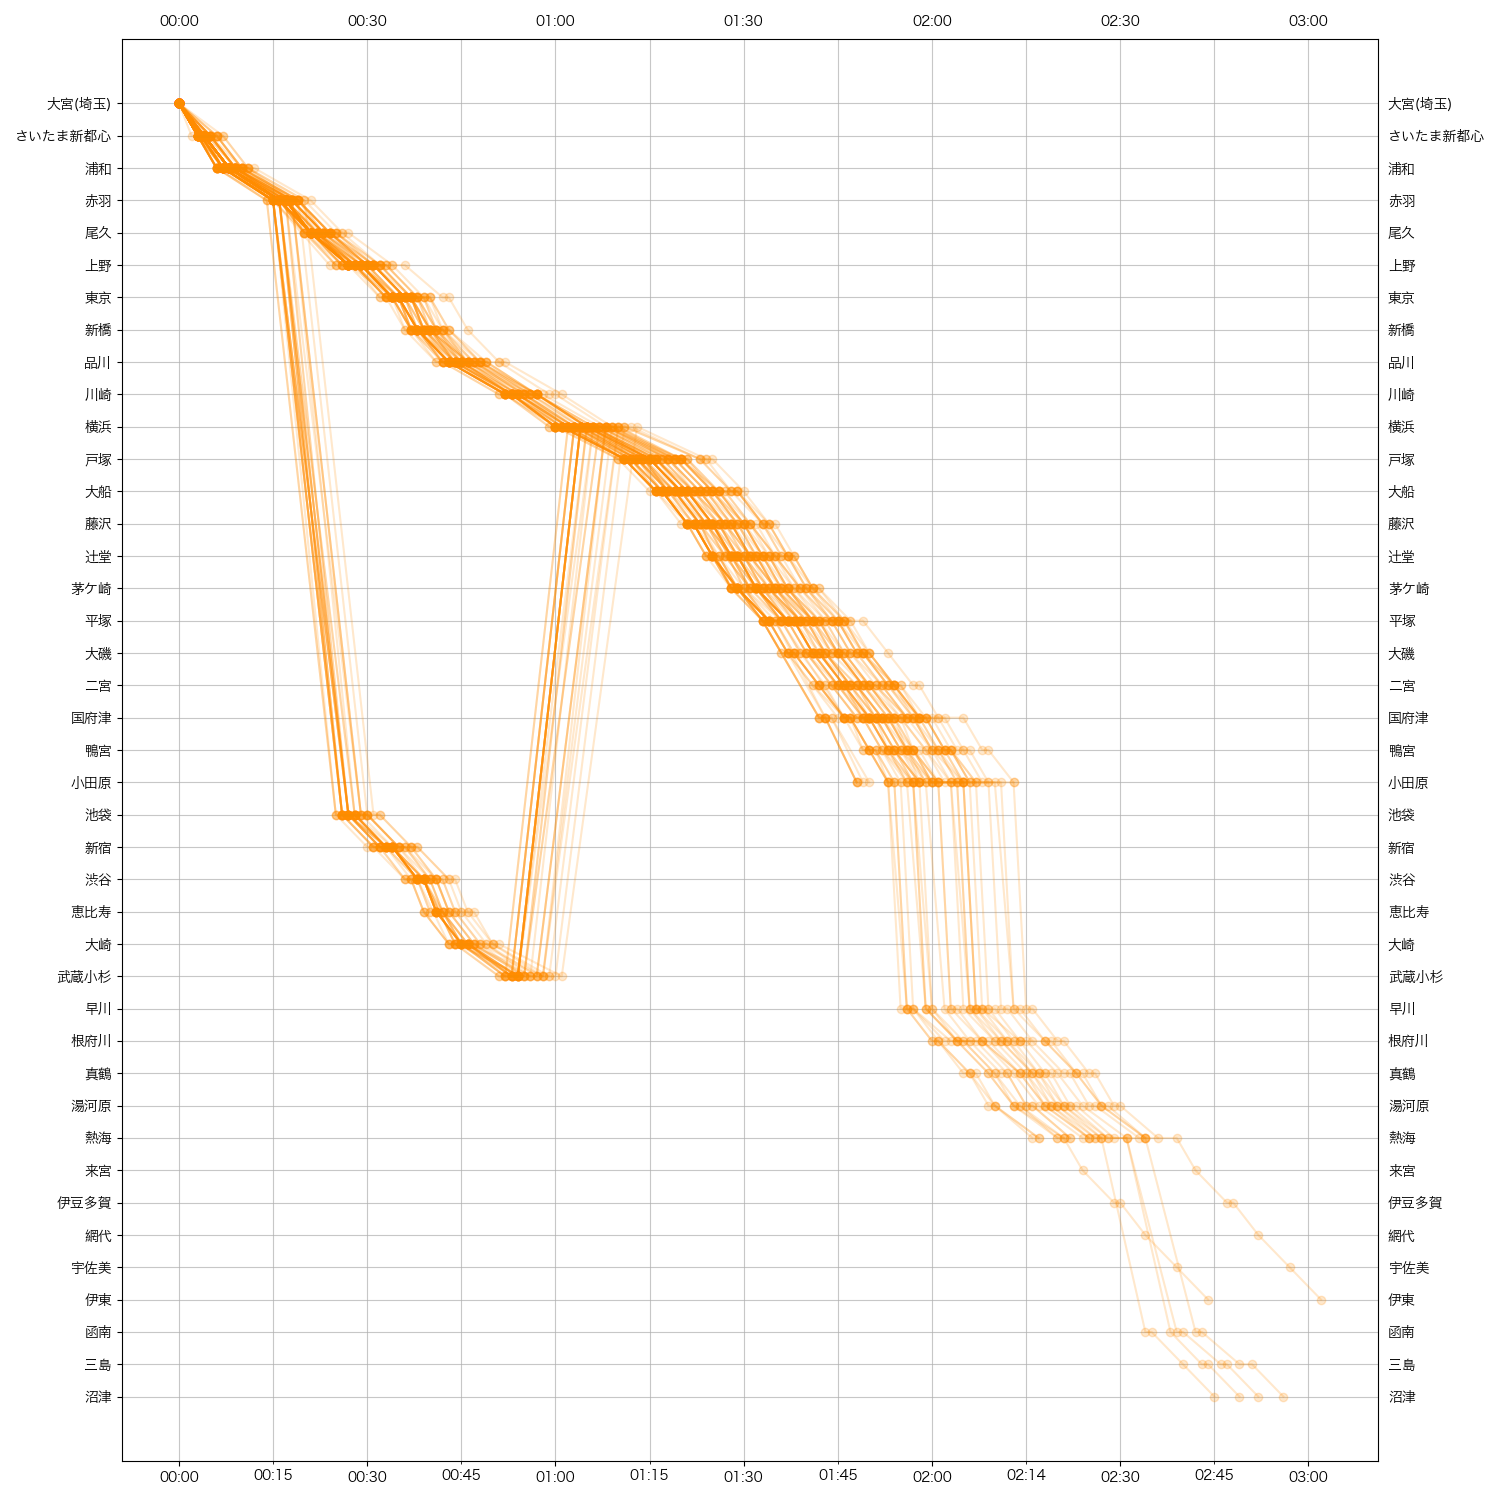
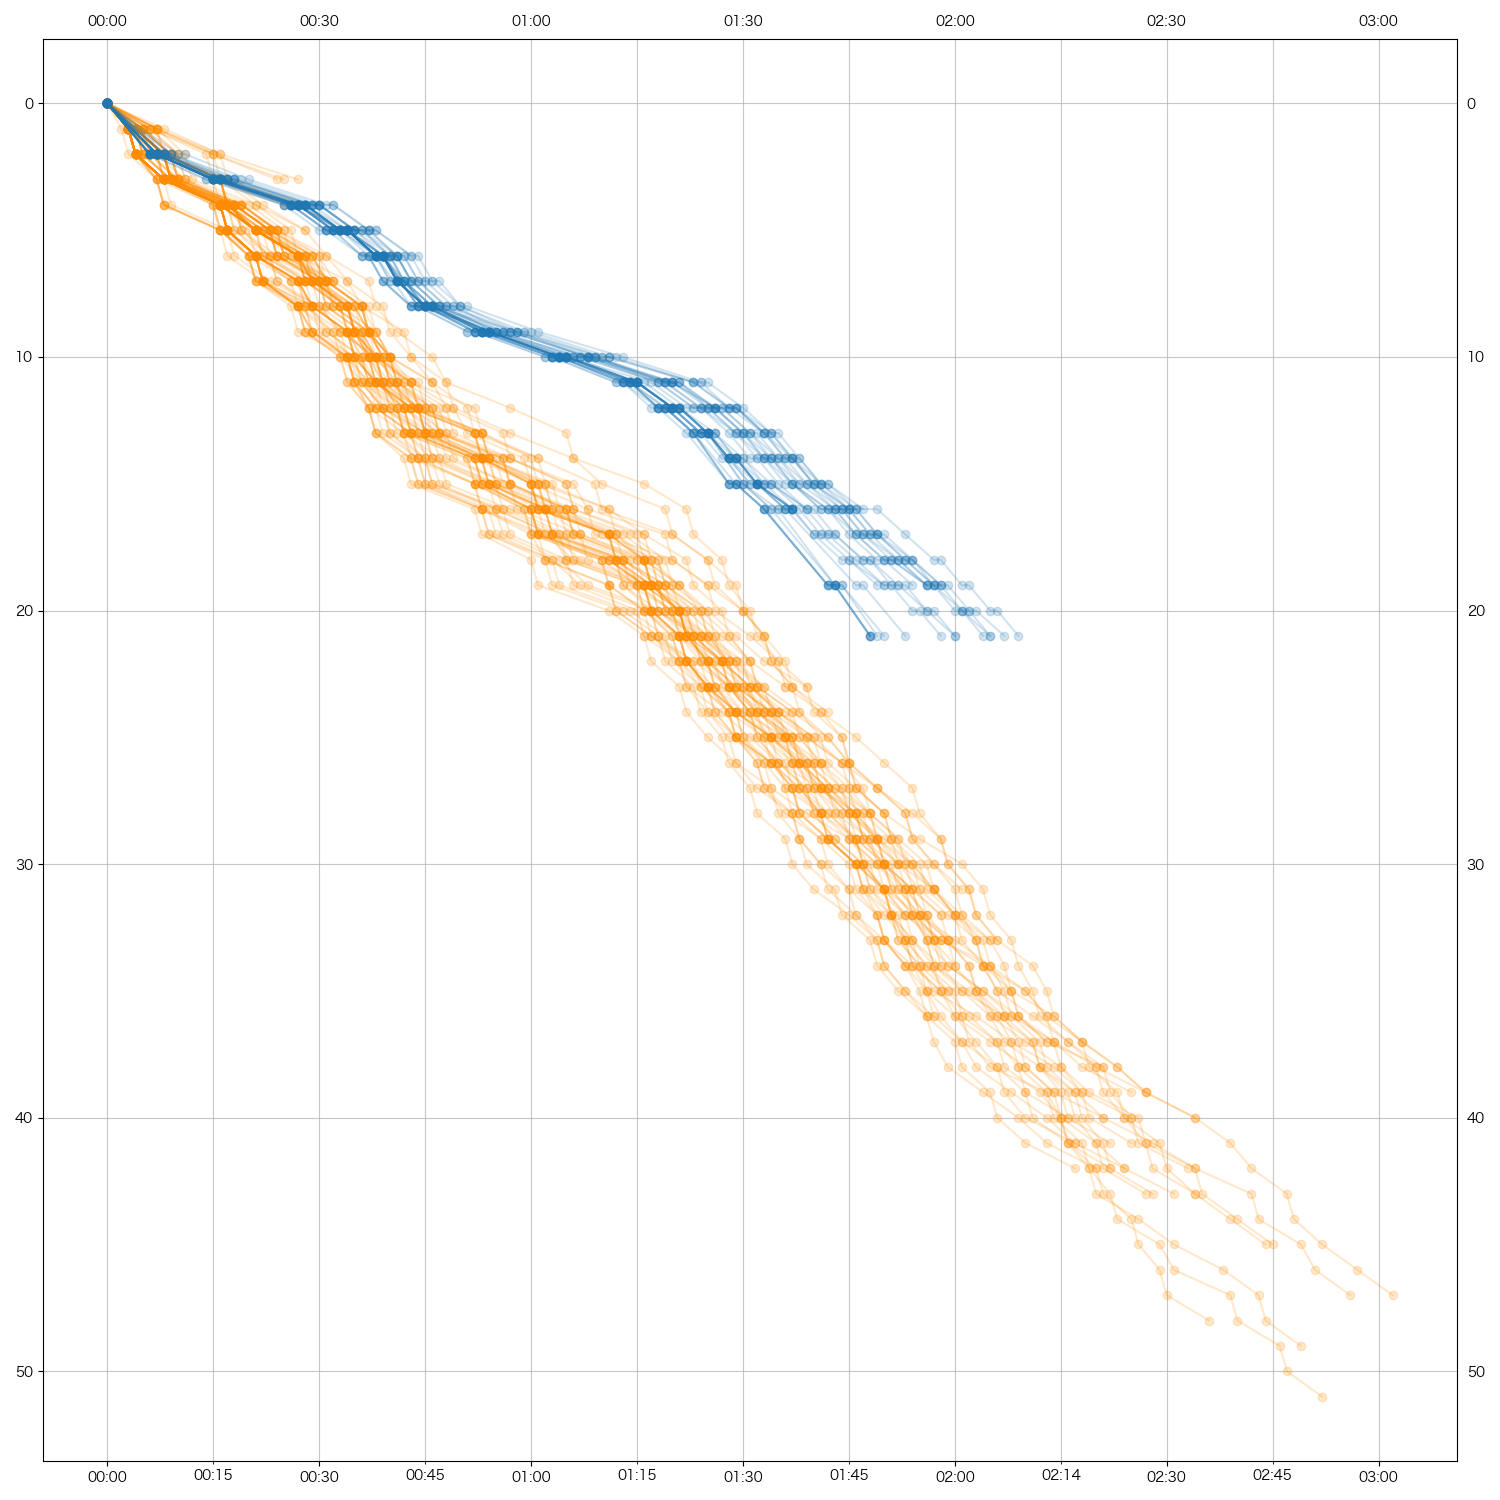
Save progress for takasaki delta

diff --git a/plot.py b/plot.py
@@ -1,13 +1,17 @@
 from common import Constants
+from matplotlib import ticker
 
 def matplotlib(
-    df: 'pd.DataFrame', line_name: str, plot_name: str, alpha: float,
+    df: 'DataFrame', df_for_branch: 'DataFrame',
+    line_name: str, plot_name: str, alpha: float,
     color: str, line: bool,
 ):
     import matplotlib.pyplot as plt
     from matplotlib.dates import DateFormatter
     from matplotlib.ticker import AutoMinorLocator
+    from matplotlib.category import StrCategoryLocator, StrCategoryFormatter
     from common import mkdirs_touch_open
+    from collections import OrderedDict
 
     outfile = Constants.plot_dir / f'{line_name}_{plot_name}.png'
     if outfile.exists():
@@ -16,7 +20,13 @@ def matplotlib(
     print(f'Plotting {plot_name} (offline)...')
 
     plt.rcParams['font.family'] = 'Hiragino Sans GB'
-    plt.figure(figsize=(15, 15))
+    _, ax = plt.subplots(figsize=(15, 15))
+
+    import numpy as np
+    df['Station_sequence'] = np.nan
+    def f(x):
+        df.loc[x.index, 'Station_sequence'] = range(x.shape[0])
+    df.groupby('Train').apply(f)
 
     args = dict(
         color=color,
@@ -28,19 +38,78 @@ def matplotlib(
 
     # yikes
     for train in df.Train.unique():
-        plt.plot(
+        ax.plot(
             df[df.Train == train]['Arrive'],
-            df[df.Train == train]['Station'],
+            df[df.Train == train]['Station_sequence'],
             **args
         )
-    plt.grid(which='both', alpha=0.7)
-    plt.gca().tick_params(axis='x', which='minor')
-    plt.gca().invert_yaxis()
-    plt.gca().xaxis.set_minor_locator(AutoMinorLocator(2))
-    plt.gca().xaxis.set_major_formatter(DateFormatter('%H:%M'))
-    plt.gca().xaxis.set_minor_formatter(DateFormatter('%H:%M'))
-    plt.gca().xaxis.set_tick_params(labeltop='on')
-    plt.gca().yaxis.set_tick_params(labelright='on')
+
+    # TODO
+    dic = {'大宮(埼玉)': 0,
+     'さいたま新都心': 1,
+     '浦和': 2,
+     '赤羽': 3,
+     #start branch
+     '池袋': 4,
+     '新宿': 5,
+     '渋谷': 6,
+     '恵比寿': 7,
+     '大崎': 8,
+     '武蔵小杉': 9,
+     #end branch
+     '横浜': 10,
+     '戸塚': 11,
+     '大船': 12,
+     '藤沢': 13,
+     '辻堂': 14,
+     '茅ケ崎': 15,
+     '平塚': 16,
+     '大磯': 17,
+     '二宮': 18,
+     '国府津': 19,
+     '鴨宮': 20,
+     '小田原': 21,
+     '早川': 22,
+     '根府川': 23,
+     '真鶴': 24,
+     '湯河原': 25,
+     '熱海': 26,
+     '来宮': 27,
+     '伊豆多賀': 28,
+     '網代': 29,
+     '宇佐美': 30,
+     '伊東': 31,
+     '函南': 32,
+     '三島': 33,
+     '沼津': 34}
+
+    df_for_branch['Station_sequence'] = np.nan
+    def f(x):
+        for idx, row in x.iterrows():
+            station = row.Station
+            seq = dic[station]
+            df_for_branch.loc[idx, 'Station_sequence'] = seq
+        #df_for_branch.loc[x.index, 'Station_sequence'] = range(x.shape[0])
+    df_for_branch.groupby('Train').apply(f)
+
+    branch_color = 'tab:blue'
+    args['color'] = branch_color
+    for train in df_for_branch.Train.unique():
+        ax.plot(
+            df_for_branch[df_for_branch.Train == train]['Arrive'],
+            df_for_branch[df_for_branch.Train == train]['Station_sequence'],
+            **args
+        )
+
+    ax.grid(which='both', alpha=0.7)
+    ax.tick_params(axis='x', which='minor')
+    ax.invert_yaxis()
+    ax.xaxis.set_minor_locator(AutoMinorLocator(2))
+    ax.xaxis.set_major_formatter(DateFormatter('%H:%M'))
+    ax.xaxis.set_minor_formatter(DateFormatter('%H:%M'))
+    ax.xaxis.set_tick_params(labeltop='on')
+    ax.yaxis.set_tick_params(labelright='on')
+
     plt.tight_layout()
     mkdirs_touch_open('', outfile)
     plt.savefig(outfile)

diff --git a/main.py b/main.py
@@ -8,7 +8,7 @@ import scrap_html
 import prepare_plot
 import plot
 
-# (DataFrame -> str -> str -> float -> str -> bool -> IO (), str)
+# (DataFrame -> DataFrame -> str -> str -> float -> str -> bool -> IO (), str)
 class Plotter(Enum):
     matplotlib = (plot.matplotlib, 'png')
     bokeh      = (plot.bokeh,      'html')
@@ -29,15 +29,46 @@ def main(line: Line, plotter: Plotter):
         return
 
     df = prepare_plot.prepare_normal(line.name)
+
+    stations_in_each_trip = df.groupby('Train').Station.unique().apply(tuple)
+    unique_counts = stations_in_each_trip.value_counts()
+    main_line = unique_counts.index[0]
+    main_lines = [main_line]
+    branch_lines = []
+    for unique_line, _ in unique_counts[1:].items():
+        if not (set(unique_line).issubset(main_line)
+                or set(main_line).issubset(unique_line)):
+        #    main_lines.append(unique_line)
+        #else:
+            branch_lines.append(unique_line)
+
+    # For the main subplot, just exclude the branches
+    trains_on_main = stations_in_each_trip[~stations_in_each_trip.isin(branch_lines)]
+    df_for_main = df[df.Train.isin(trains_on_main.index)]
+    # If there are branches, plot them in other subplots
+    # TODO multiple branches = multiple subplots
+    trains_on_branch = stations_in_each_trip[stations_in_each_trip.isin(branch_lines)]
+    df_for_branch = df[df.Train.isin(trains_on_branch.index)]
+
     plt_func = plotter.value[0]
-    plt_func(df, line.name, 'normal', alpha=0.5, color=line.color, line=True)
+    plt_func(
+        df_for_main, df_for_branch,
+        line.name, 'normal', alpha=0.5, color=line.color, line=True
+    )
 
     # If only normal was missing, exit now
     if delta.exists() and delta_scatter.exists():
         return
-    df = prepare_plot.prepare_delta(df)
-    plt_func(df, line.name, 'delta', alpha=0.2, color=line.color, line=True)
-    plt_func(df, line.name, 'delta_scatter', alpha=0.2, color=line.color, line=False)
+    df_for_main = prepare_plot.prepare_delta(df_for_main)
+    df_for_branch = prepare_plot.prepare_delta(df_for_branch)
+    plt_func(
+        df_for_main, df_for_branch,
+        line.name, 'delta', alpha=0.2, color=line.color, line=True
+    )
+    plt_func(
+        df_for_main, df_for_branch,
+        line.name, 'delta_scatter', alpha=0.2, color=line.color, line=False
+    )
 
 
 if __name__ == '__main__':
@@ -66,4 +97,4 @@ if __name__ == '__main__':
         color = '#FF8C00',
         url = 'https://ekitan.com/timetable/railway/line-station/136-4/d1?dt=20211101'
     )
-    main(yamanote, plotter=Plotter.matplotlib)
+    main(takasaki, plotter=Plotter.matplotlib)
